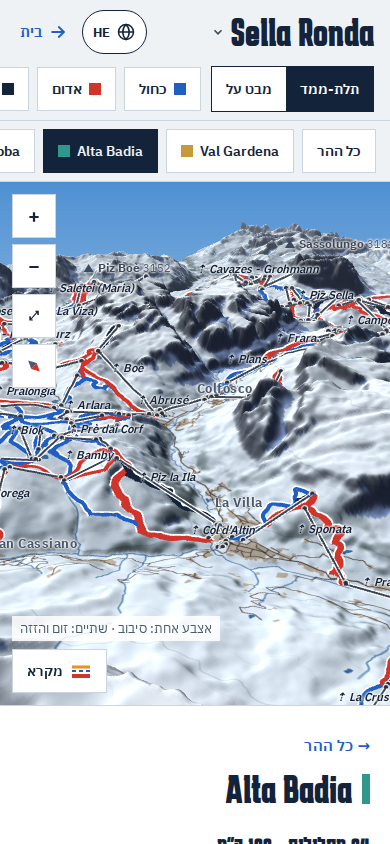
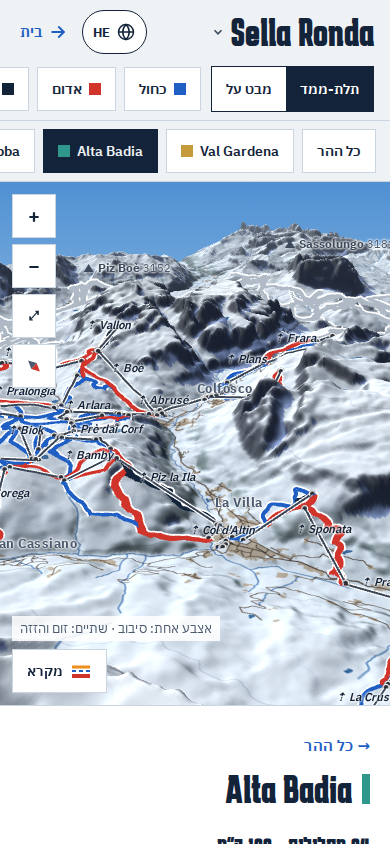
סבב 25: עמקים גם בתלת-ממד, לפי פיני (קנבס גרסה 76)
Claude-Session: https://claude.ai/code/session_018WEovaqXC4kNabe89Cnwoj

diff --git a/design/canvas/project/R25-Spec.dc.html b/design/canvas/project/R25-Spec.dc.html
@@ -12,7 +12,7 @@
 body{margin:0;background:#EEF2F5}
 </style>
 </helmet>
-<div style="width: 640px; height: 2050px; box-sizing: border-box; padding: 28px; background: #FFFFFF; color: #13233A; font-family: 'IBM Plex Sans Hebrew', system-ui, sans-serif; direction: rtl; border-top: 8px solid #13233A"><h1 style="margin: 0; font-family: Karantina, 'Arial Narrow', sans-serif; font-size: 48px; line-height: 1">ערכים למימוש</h1><div style="height: 10px"></div><ol style="margin: 0; padding: 0; list-style: none"><li style="display: flex; flex-direction: column; gap: 2px; padding: 9px 0; border-top: 1px solid #CBD5DF"><b style="font-size: 16px">מתי</b><span style="font-size: 14px; line-height: 1.55; color: #4B5A6F">רק באתר שיש בו חלוקה לעמקים בנתונים (היום Sella Ronda ו-Sölden). גודאורי בלי שינוי.</span></li><li style="display: flex; flex-direction: column; gap: 2px; padding: 9px 0; border-top: 1px solid #CBD5DF"><b style="font-size: 16px">נתונים</b><span style="font-size: 14px; line-height: 1.55; color: #4B5A6F">לכל מסלול ולכל רכבל שדה עמק, מקיבוץ בלבד: הרשימה הכתובה של העמק, ואם אין, האזור ב-OpenSkiMap, ואחרון, העמק של המסלול הקרוב (מסומן). שום קו לא נוסף. חוזה משותף: סקירת ארכיטקט ושורה ב-PARITY (אצל סשן המנהל).</span></li><li style="display: flex; flex-direction: column; gap: 2px; padding: 9px 0; border-top: 1px solid #CBD5DF"><b style="font-size: 16px">צבע לעמק</b><span style="font-size: 14px; line-height: 1.55; color: #4B5A6F">ארבעה גוונים רכים, לא צבעי דרגת קושי. ביום: #C49A3A, #2F978B, #8C6CC0, #7E9136. בלילה: #E2BB5C, #4CC3B4, #B69AE8, #A9BE57. טוקנים --v-&lt;id&gt;, לפי סדר העמקים בקובץ.</span></li><li style="display: flex; flex-direction: column; gap: 2px; padding: 9px 0; border-top: 1px solid #CBD5DF"><b style="font-size: 16px">האזור הרך</b><span style="font-size: 14px; line-height: 1.55; color: #4B5A6F">המסלולים של העמק, ברוחב 1,500 מ׳ ב-Sella Ronda ו-700 ב-Sölden (בערך 6 אחוז מרוחב האתר), קצוות מעוגלים, בקבוצה אחת בשקיפות 34 אחוז ביום ו-30 בלילה. מתחת למעטפות של המסלולים, מעל התבליט. בעמק נבחר: 12 אחוז ביום, 10 בלילה, רק שלו.</span></li><li style="display: flex; flex-direction: column; gap: 2px; padding: 9px 0; border-top: 1px solid #CBD5DF"><b style="font-size: 16px">כל ההר (א)</b><span style="font-size: 14px; line-height: 1.55; color: #4B5A6F">עד שעמק ממלא את רוב המסך (בזום שבו מטר לפיקסל גבוה מ-25 בערך): המסלולים בחצי מהרוחב ובלי מעטפת; שטח מסלול רחב ב-55 אחוז; רכבלים ב---muted, 0.9, שקיפות 75 אחוז, בלי תחנות; בלי תוויות של מסלולים ורכבלים. כפרים ופסגות כמו היום.</span></li><li style="display: flex; flex-direction: column; gap: 2px; padding: 9px 0; border-top: 1px solid #CBD5DF"><b style="font-size: 16px">שלט עמק</b><span style="font-size: 14px; line-height: 1.55; color: #4B5A6F">רקע --paper, מסגרת --rule 1.5, פס עליון 4 בצבע העמק, צל --shadow. השם ב-Karantina 19 (16 באתר קטן), מתחת ריבוע צבע ומספר לכל צבע, 11.5 במשקל 600. במרכז המסלולים של העמק, ושלטים נדחפים זה מזה. כולו יעד מגע (לפחות 44); נגיעה בוחרת את העמק.</span></li><li style="display: flex; flex-direction: column; gap: 2px; padding: 9px 0; border-top: 1px solid #CBD5DF"><b style="font-size: 16px">הצ&#x27;יפים</b><span style="font-size: 14px; line-height: 1.55; color: #4B5A6F">שורה מתחת לסינון, אותו רכיב כמו הסינון (44, פינות ישרות): &quot;כל ההר&quot; ואחריו העמקים, ריבוע 12 בצבע העמק. נבחר: רקע --ink וטקסט --snow. בטלפון גוללים הצידה, והנבחר נגלל לתוך המסך. קישור: #map/area/&lt;id&gt;.</span></li><li style="display: flex; flex-direction: column; gap: 2px; padding: 9px 0; border-top: 1px solid #CBD5DF"><b style="font-size: 16px">עמק נבחר (ב)</b><span style="font-size: 14px; line-height: 1.55; color: #4B5A6F">מסגור לגבולות המסלולים של העמק (בלי דרכים מקשרות ארוכות), עם 18 אחוז שוליים. מסלולים ורכבלים של עמקים אחרים ב-16 אחוז. תוויות רק של העמק: המסלולים לפי אורך, מהארוך, ואחריהם שמות הרכבלים; אותו כלל של &quot;לא עולה על אחרת&quot; של היום. לוחיות של סבב 23 כמו היום.</span></li><li style="display: flex; flex-direction: column; gap: 2px; padding: 9px 0; border-top: 1px solid #CBD5DF"><b style="font-size: 16px">הרשימה</b><span style="font-size: 14px; line-height: 1.55; color: #4B5A6F">כל ההר: שורה לכל עמק, גובה 64 לפחות, פס 6 בצבע העמק, השם ב-Karantina 24, וריבוע ומספר לכל צבע, מספר המסלולים והקילומטרים. נגיעה כמו בצ&#x27;יפ. עמק: &quot;← כל ההר&quot;, כותרת עם הפס, &quot;N מסלולים · N ק״מ&quot;, והמסלולים כמו ברשימה של היום.</span></li><li style="display: flex; flex-direction: column; gap: 2px; padding: 9px 0; border-top: 1px solid #CBD5DF"><b style="font-size: 16px">מחשב</b><span style="font-size: 14px; line-height: 1.55; color: #4B5A6F">הרשימה בצד, אותו דבר. מעבר עכבר על שורה: המעטפת של המסלול בצהוב #FFD34D ברוחב 11 והקו ברוחב 5, מעל השאר. בלי בחירה ובלי תנועת מצלמה.</span></li><li style="display: flex; flex-direction: column; gap: 2px; padding: 9px 0; border-top: 1px solid #CBD5DF"><b style="font-size: 16px">תלת-ממד (ד)</b><span style="font-size: 14px; line-height: 1.55; color: #4B5A6F">אותם צ&#x27;יפים. מצלמה: מרכז העמק, זווית 0.4, מרחק פי 1.15 מהרוחב של העמק, מהכיוון שמהמרכז של האתר אל העמק (ב-Sella Ronda: קבוצת Sella, 46.512, 11.80), כך שמסתכלים פנימה אל הרכס. &quot;כל ההר&quot; חוזר למבט של היום.</span></li><li style="display: flex; flex-direction: column; gap: 2px; padding: 9px 0; border-top: 1px solid #CBD5DF"><b style="font-size: 16px">מחרוזות</b><span style="font-size: 14px; line-height: 1.55; color: #4B5A6F">&quot;כל ההר&quot;, &quot;עמקים&quot; (תווית לקורא מסך של השורה), &quot;N עמקים&quot;, &quot;N מסלולים · N ק״מ&quot;, בארבע השפות. שמות העמקים משמם המקומי, בלי תרגום.</span></li></ol></div>
+<div style="width: 640px; height: 2050px; box-sizing: border-box; padding: 28px; background: #FFFFFF; color: #13233A; font-family: 'IBM Plex Sans Hebrew', system-ui, sans-serif; direction: rtl; border-top: 8px solid #13233A"><h1 style="margin: 0; font-family: Karantina, 'Arial Narrow', sans-serif; font-size: 48px; line-height: 1">ערכים למימוש</h1><div style="height: 10px"></div><ol style="margin: 0; padding: 0; list-style: none"><li style="display: flex; flex-direction: column; gap: 2px; padding: 9px 0; border-top: 1px solid #CBD5DF"><b style="font-size: 16px">מתי</b><span style="font-size: 14px; line-height: 1.55; color: #4B5A6F">רק באתר שיש בו חלוקה לעמקים בנתונים (היום Sella Ronda ו-Sölden). גודאורי בלי שינוי.</span></li><li style="display: flex; flex-direction: column; gap: 2px; padding: 9px 0; border-top: 1px solid #CBD5DF"><b style="font-size: 16px">נתונים</b><span style="font-size: 14px; line-height: 1.55; color: #4B5A6F">לכל מסלול ולכל רכבל שדה עמק, מקיבוץ בלבד: הרשימה הכתובה של העמק, ואם אין, האזור ב-OpenSkiMap, ואחרון, העמק של המסלול הקרוב (מסומן). שום קו לא נוסף. חוזה משותף: סקירת ארכיטקט ושורה ב-PARITY (אצל סשן המנהל).</span></li><li style="display: flex; flex-direction: column; gap: 2px; padding: 9px 0; border-top: 1px solid #CBD5DF"><b style="font-size: 16px">צבע לעמק</b><span style="font-size: 14px; line-height: 1.55; color: #4B5A6F">ארבעה גוונים רכים, לא צבעי דרגת קושי. ביום: #C49A3A, #2F978B, #8C6CC0, #7E9136. בלילה: #E2BB5C, #4CC3B4, #B69AE8, #A9BE57. טוקנים --v-&lt;id&gt;, לפי סדר העמקים בקובץ.</span></li><li style="display: flex; flex-direction: column; gap: 2px; padding: 9px 0; border-top: 1px solid #CBD5DF"><b style="font-size: 16px">האזור הרך</b><span style="font-size: 14px; line-height: 1.55; color: #4B5A6F">המסלולים של העמק, ברוחב 1,500 מ׳ ב-Sella Ronda ו-700 ב-Sölden (בערך 6 אחוז מרוחב האתר), קצוות מעוגלים, בקבוצה אחת בשקיפות 34 אחוז ביום ו-30 בלילה. מתחת למעטפות של המסלולים, מעל התבליט. בעמק נבחר: 12 אחוז ביום, 10 בלילה, רק שלו.</span></li><li style="display: flex; flex-direction: column; gap: 2px; padding: 9px 0; border-top: 1px solid #CBD5DF"><b style="font-size: 16px">כל ההר (א)</b><span style="font-size: 14px; line-height: 1.55; color: #4B5A6F">עד שעמק ממלא את רוב המסך (בזום שבו מטר לפיקסל גבוה מ-25 בערך): המסלולים בחצי מהרוחב ובלי מעטפת; שטח מסלול רחב ב-55 אחוז; רכבלים ב---muted, 0.9, שקיפות 75 אחוז, בלי תחנות; בלי תוויות של מסלולים ורכבלים. כפרים ופסגות כמו היום.</span></li><li style="display: flex; flex-direction: column; gap: 2px; padding: 9px 0; border-top: 1px solid #CBD5DF"><b style="font-size: 16px">שלט עמק</b><span style="font-size: 14px; line-height: 1.55; color: #4B5A6F">רקע --paper, מסגרת --rule 1.5, פס עליון 4 בצבע העמק, צל --shadow. השם ב-Karantina 19 (16 באתר קטן), מתחת ריבוע צבע ומספר לכל צבע, 11.5 במשקל 600. במרכז המסלולים של העמק, ושלטים נדחפים זה מזה. כולו יעד מגע (לפחות 44); נגיעה בוחרת את העמק.</span></li><li style="display: flex; flex-direction: column; gap: 2px; padding: 9px 0; border-top: 1px solid #CBD5DF"><b style="font-size: 16px">הצ&#x27;יפים</b><span style="font-size: 14px; line-height: 1.55; color: #4B5A6F">שורה מתחת לסינון, אותו רכיב כמו הסינון (44, פינות ישרות): &quot;כל ההר&quot; ואחריו העמקים, ריבוע 12 בצבע העמק. נבחר: רקע --ink וטקסט --snow. בטלפון גוללים הצידה, והנבחר נגלל לתוך המסך. קישור: #map/area/&lt;id&gt;.</span></li><li style="display: flex; flex-direction: column; gap: 2px; padding: 9px 0; border-top: 1px solid #CBD5DF"><b style="font-size: 16px">עמק נבחר (ב)</b><span style="font-size: 14px; line-height: 1.55; color: #4B5A6F">מסגור לגבולות המסלולים של העמק (בלי דרכים מקשרות ארוכות), עם 18 אחוז שוליים. מסלולים ורכבלים של עמקים אחרים ב-16 אחוז. תוויות רק של העמק: המסלולים לפי אורך, מהארוך, ואחריהם שמות הרכבלים; אותו כלל של &quot;לא עולה על אחרת&quot; של היום. לוחיות של סבב 23 כמו היום.</span></li><li style="display: flex; flex-direction: column; gap: 2px; padding: 9px 0; border-top: 1px solid #CBD5DF"><b style="font-size: 16px">הרשימה</b><span style="font-size: 14px; line-height: 1.55; color: #4B5A6F">כל ההר: שורה לכל עמק, גובה 64 לפחות, פס 6 בצבע העמק, השם ב-Karantina 24, וריבוע ומספר לכל צבע, מספר המסלולים והקילומטרים. נגיעה כמו בצ&#x27;יפ. עמק: &quot;← כל ההר&quot;, כותרת עם הפס, &quot;N מסלולים · N ק״מ&quot;, והמסלולים כמו ברשימה של היום.</span></li><li style="display: flex; flex-direction: column; gap: 2px; padding: 9px 0; border-top: 1px solid #CBD5DF"><b style="font-size: 16px">מחשב</b><span style="font-size: 14px; line-height: 1.55; color: #4B5A6F">הרשימה בצד, אותו דבר. מעבר עכבר על שורה: המעטפת של המסלול בצהוב #FFD34D ברוחב 11 והקו ברוחב 5, מעל השאר. בלי בחירה ובלי תנועת מצלמה.</span></li><li style="display: flex; flex-direction: column; gap: 2px; padding: 9px 0; border-top: 1px solid #CBD5DF"><b style="font-size: 16px">תלת-ממד (ד)</b><span style="font-size: 14px; line-height: 1.55; color: #4B5A6F">אותם צ&#x27;יפים. כל ההר: זווית 0.95 (גבוה), מסלול בצבע העמק שלו (הטוקנים --v-&lt;id&gt;, גם השטח הרחב), רכבלים #8A96A6, ובלי תוויות של מסלולים, רכבלים, כפרים ופסגות; שלט העמק הוא התווית הראשונה שמונחת, על נקודת מסלול גבוהה קרוב לאמצע העמק (גובה פחות 0.12 כפול המרחק מהאמצע). עמק אחד: מצלמה במרכז העמק, זווית 0.4, מרחק פי 1.15 מהרוחב שלו, מהכיוון שמהמרכז של האתר אל העמק (ב-Sella Ronda: קבוצת Sella, 46.512, 11.80); המסלולים של עמקים אחרים #AEB8C4 ובלי תווית, והרכבלים שלהם לא מצוירים.</span></li><li style="display: flex; flex-direction: column; gap: 2px; padding: 9px 0; border-top: 1px solid #CBD5DF"><b style="font-size: 16px">מחרוזות</b><span style="font-size: 14px; line-height: 1.55; color: #4B5A6F">&quot;כל ההר&quot;, &quot;עמקים&quot; (תווית לקורא מסך של השורה), &quot;N עמקים&quot;, &quot;N מסלולים · N ק״מ&quot;, בארבע השפות. שמות העמקים משמם המקומי, בלי תרגום.</span></li></ol></div>
 </x-dc>
 <script type="text/x-dc" data-dc-script data-props='{"$preview":{"width":640,"height":2050}}'>
 class Component extends DCLogic {

diff --git a/design/canvas/project/R25-0-Decide.dc.html b/design/canvas/project/R25-0-Decide.dc.html
@@ -12,7 +12,7 @@
 body{margin:0;background:#EEF2F5}
 </style>
 </helmet>
-<div style="width: 600px; height: 1160px; box-sizing: border-box; padding: 28px; background: #FFFFFF; color: #13233A; font-family: 'IBM Plex Sans Hebrew', system-ui, sans-serif; direction: rtl; border-top: 8px solid #1F5FC4"><h1 style="margin: 0; font-family: Karantina, 'Arial Narrow', sans-serif; font-size: 48px; line-height: 1">מה לאשר בסבב 25</h1><p style="margin: 8px 0 12px; font-size: 14.5px; line-height: 1.55; color: #4B5A6F">ארבעה כיוונים, מצוירים מעל האתר האמיתי, והמלצה אחת. העמקים מקיבוץ של מקורות אמיתיים; שום קו לא נוסף.</p><ol style="margin: 0; padding: 0; list-style: none"><li style="display: flex; flex-direction: column; gap: 2px; padding: 9px 0; border-top: 1px solid #CBD5DF"><b style="font-size: 16px">מה ביקשו</b><span style="font-size: 14px; line-height: 1.55; color: #4B5A6F">פיני: באתר גדול (Sella Ronda, וגם Sölden) המפה מבולגנת ולא קריאה. הציע רשימה כאפשרות ראשית, חלוקה לקטעים עם מבט על הכל, ותלת-ממד בשיפוע.</span></li><li style="display: flex; flex-direction: column; gap: 2px; padding: 9px 0; border-top: 1px solid #CBD5DF"><b style="font-size: 16px">מה מצאתי</b><span style="font-size: 14px; line-height: 1.55; color: #4B5A6F">הבעיה היא לא חפיפה של טקסט (אין), אלא שאין היררכיה: 9,049 קווים באותו משקל, רכבלים שחורים ותחנות בולטים מהמסלולים, ותוויות שנבחרות לפי סדר ולא לפי חשיבות. החלוקה לעמקים כבר קיימת במקורות אמיתיים.</span></li><li style="display: flex; flex-direction: column; gap: 2px; padding: 9px 0; border-top: 1px solid #CBD5DF"><b style="font-size: 16px">ההמלצה: מערכת אחת של עמקים</b><span style="font-size: 14px; line-height: 1.55; color: #4B5A6F"><b style="color: #13233A">א</b> כל ההר מראה עמקים עם שם וספירה, והפרטים רק בפנים; <b style="color: #13233A">ב</b> שורת צ&#x27;יפים לעמק, שממסגרת ומעמעמת את השאר, עם תוויות לפי חשיבות; הרשימה מחולקת לעמקים; <b style="color: #13233A">ד</b> בתלת-ממד המצלמה נמוכה בצד העמק. בטלפון ובמחשב.</span></li><li style="display: flex; flex-direction: column; gap: 2px; padding: 9px 0; border-top: 1px solid #CBD5DF"><b style="font-size: 16px">מה לא</b><span style="font-size: 14px; line-height: 1.55; color: #4B5A6F"><b style="color: #13233A">ג</b> הרשימה קודם: מתאים למי שיודע שם, לא למי שמגיע לאתר חדש. רק החלוקה של הרשימה נכנסת. גודאורי בלי שינוי.</span></li><li style="display: flex; flex-direction: column; gap: 2px; padding: 9px 0; border-top: 1px solid #CBD5DF"><b style="font-size: 16px">שאלה 1</b><span style="font-size: 14px; line-height: 1.55; color: #4B5A6F">לאשר את א, ב וד יחד כמו בקנבס?</span></li><li style="display: flex; flex-direction: column; gap: 2px; padding: 9px 0; border-top: 1px solid #CBD5DF"><b style="font-size: 16px">שאלה 2</b><span style="font-size: 14px; line-height: 1.55; color: #4B5A6F">ארבעה גוונים רכים לעמקים (חרדל, טורקיז, סגול, זית), שלא מתנגשים בצבעי הקושי. בסדר, או בלי צבע לעמקים (רק שם)?</span></li><li style="display: flex; flex-direction: column; gap: 2px; padding: 9px 0; border-top: 1px solid #CBD5DF"><b style="font-size: 16px">שאלה 3</b><span style="font-size: 14px; line-height: 1.55; color: #4B5A6F">ג, הרשימה קודם: לוותר (ההמלצה), או לנסות גם אותה באתר הגדול?</span></li><li style="display: flex; flex-direction: column; gap: 2px; padding: 9px 0; border-top: 1px solid #CBD5DF"><b style="font-size: 16px">אחרי האישור</b><span style="font-size: 14px; line-height: 1.55; color: #4B5A6F">שדה עמק בנתונים: סקירת ארכיטקט ושורה ב-PARITY (סשן המנהל), ואז מימוש. הנתונים: קיבוץ בלבד, שום קו לא נוסף.</span></li></ol></div>
+<div style="width: 600px; height: 1160px; box-sizing: border-box; padding: 28px; background: #FFFFFF; color: #13233A; font-family: 'IBM Plex Sans Hebrew', system-ui, sans-serif; direction: rtl; border-top: 8px solid #1F5FC4"><h1 style="margin: 0; font-family: Karantina, 'Arial Narrow', sans-serif; font-size: 48px; line-height: 1">מה לאשר בסבב 25</h1><p style="margin: 8px 0 12px; font-size: 14.5px; line-height: 1.55; color: #4B5A6F">ארבעה כיוונים, מצוירים מעל האתר האמיתי, והמלצה אחת. העמקים מקיבוץ של מקורות אמיתיים; שום קו לא נוסף.</p><ol style="margin: 0; padding: 0; list-style: none"><li style="display: flex; flex-direction: column; gap: 2px; padding: 9px 0; border-top: 1px solid #CBD5DF"><b style="font-size: 16px">מה ביקשו</b><span style="font-size: 14px; line-height: 1.55; color: #4B5A6F">פיני: באתר גדול (Sella Ronda, וגם Sölden) המפה מבולגנת ולא קריאה. הציע רשימה כאפשרות ראשית, חלוקה לקטעים עם מבט על הכל, ותלת-ממד בשיפוע.</span></li><li style="display: flex; flex-direction: column; gap: 2px; padding: 9px 0; border-top: 1px solid #CBD5DF"><b style="font-size: 16px">מה מצאתי</b><span style="font-size: 14px; line-height: 1.55; color: #4B5A6F">הבעיה היא לא חפיפה של טקסט (אין), אלא שאין היררכיה: 9,049 קווים באותו משקל, רכבלים שחורים ותחנות בולטים מהמסלולים, ותוויות שנבחרות לפי סדר ולא לפי חשיבות. החלוקה לעמקים כבר קיימת במקורות אמיתיים.</span></li><li style="display: flex; flex-direction: column; gap: 2px; padding: 9px 0; border-top: 1px solid #CBD5DF"><b style="font-size: 16px">ההמלצה: מערכת אחת של עמקים</b><span style="font-size: 14px; line-height: 1.55; color: #4B5A6F"><b style="color: #13233A">א</b> כל ההר מראה עמקים עם שם וספירה, והפרטים רק בפנים; <b style="color: #13233A">ב</b> שורת צ&#x27;יפים לעמק, שממסגרת ומעמעמת את השאר, עם תוויות לפי חשיבות; הרשימה מחולקת לעמקים; <b style="color: #13233A">ד</b> גם בתלת-ממד: כל ההר בצבעי העמקים עם שלטים, ובעמק אחד מצלמה נמוכה והשאר באפור. בטלפון ובמחשב.</span></li><li style="display: flex; flex-direction: column; gap: 2px; padding: 9px 0; border-top: 1px solid #CBD5DF"><b style="font-size: 16px">מה לא</b><span style="font-size: 14px; line-height: 1.55; color: #4B5A6F"><b style="color: #13233A">ג</b> הרשימה קודם: מתאים למי שיודע שם, לא למי שמגיע לאתר חדש. רק החלוקה של הרשימה נכנסת. גודאורי בלי שינוי.</span></li><li style="display: flex; flex-direction: column; gap: 2px; padding: 9px 0; border-top: 1px solid #CBD5DF"><b style="font-size: 16px">שאלה 1</b><span style="font-size: 14px; line-height: 1.55; color: #4B5A6F">לאשר את א, ב וד יחד כמו בקנבס?</span></li><li style="display: flex; flex-direction: column; gap: 2px; padding: 9px 0; border-top: 1px solid #CBD5DF"><b style="font-size: 16px">שאלה 2</b><span style="font-size: 14px; line-height: 1.55; color: #4B5A6F">ארבעה גוונים רכים לעמקים (חרדל, טורקיז, סגול, זית), שלא מתנגשים בצבעי הקושי. בסדר, או בלי צבע לעמקים (רק שם)?</span></li><li style="display: flex; flex-direction: column; gap: 2px; padding: 9px 0; border-top: 1px solid #CBD5DF"><b style="font-size: 16px">שאלה 3</b><span style="font-size: 14px; line-height: 1.55; color: #4B5A6F">ג, הרשימה קודם: לוותר (ההמלצה), או לנסות גם אותה באתר הגדול?</span></li><li style="display: flex; flex-direction: column; gap: 2px; padding: 9px 0; border-top: 1px solid #CBD5DF"><b style="font-size: 16px">אחרי האישור</b><span style="font-size: 14px; line-height: 1.55; color: #4B5A6F">שדה עמק בנתונים: סקירת ארכיטקט ושורה ב-PARITY (סשן המנהל), ואז מימוש. הנתונים: קיבוץ בלבד, שום קו לא נוסף.</span></li></ol></div>
 </x-dc>
 <script type="text/x-dc" data-dc-script data-props='{"$preview":{"width":600,"height":1160}}'>
 class Component extends DCLogic {

diff --git a/design/canvas/project/R25-D3.dc.html b/design/canvas/project/R25-D3.dc.html
@@ -2,7 +2,7 @@
 <html lang="he" dir="rtl">
 <head>
 <meta charset="utf-8">
-<title>ד. תלת-ממד לכל עמק (מומלץ)</title>
+<title>ד. תלת-ממד: גם כאן עמקים (מומלץ, עודכן לפי פיני)</title>
 <script src="./support.js"></script>
 </head>
 <body>
@@ -12,7 +12,7 @@
 body{margin:0;background:#EEF2F5}
 </style>
 </helmet>
-<div style="width: 2102px; height: 1068px; box-sizing: border-box; padding: 20px; display: flex; flex-direction: column; gap: 12px; background: #FFFFFF; color: #13233A; font-family: 'IBM Plex Sans Hebrew', system-ui, sans-serif; direction: rtl"><div style="display: flex; flex-direction: column; gap: 6px; height: 138px; max-width: 2062px"><b style="font-family: Karantina, 'Arial Narrow', sans-serif; font-size: 34px; line-height: 1">ד. תלת-ממד לכל עמק (מומלץ)</b><span style="font-size: 14px; line-height: 1.45; color: #4B5A6F">בתלת-ממד אותם צ&#x27;יפים. בחירת עמק מעבירה את המצלמה נמוך, מהצד החיצוני של העמק, מבט פנימה אל הרכס (ב-Sella Ronda אל קבוצת Sella), במקום כל 26 הק״מ מלמעלה. ההר נראה כהר בשיפוע, כמו שפיני הציע, והמסלולים של העמק בקדמת התמונה.</span></div><div style="display: flex; gap: 28px; align-items: flex-start"><div style="display: flex; flex-direction: column; gap: 18px; width: 390px"><b style="height: 16px; font-size: 15px; color: #1F5FC4">היום</b><img src="/_blob/da48b79a5216cc0f9a063cff5003233f" alt="היום" style="display: block; width: 390px; height: 844px; box-shadow: 0 0 0 1px #CBD5DF"></div><div style="display: flex; flex-direction: column; gap: 18px; width: 390px"><b style="height: 16px; font-size: 15px; color: #1F5FC4">Alta Badia</b><img src="/_blob/6bb7536cc3b634439225a45b9108280f" alt="Alta Badia" style="display: block; width: 390px; height: 844px; box-shadow: 0 0 0 1px #CBD5DF"></div><div style="display: flex; flex-direction: column; gap: 18px; width: 390px"><b style="height: 16px; font-size: 15px; color: #1F5FC4">בלילה</b><img src="/_blob/510da695e1b17b04894806a20a13e34a" alt="בלילה" style="display: block; width: 390px; height: 844px; box-shadow: 0 0 0 1px #CBD5DF"></div><div style="display: flex; flex-direction: column; gap: 18px; width: 390px"><b style="height: 16px; font-size: 15px; color: #1F5FC4">Val Gardena</b><img src="/_blob/d59656f33208224349566c6b130fe0e7" alt="Val Gardena" style="display: block; width: 390px; height: 844px; box-shadow: 0 0 0 1px #CBD5DF"></div><div style="display: flex; flex-direction: column; gap: 18px; width: 390px"><b style="height: 16px; font-size: 15px; color: #1F5FC4">Sölden, הקרחון</b><img src="/_blob/fe9f752d7659ed6f702605c9afe72b85" alt="Sölden, הקרחון" style="display: block; width: 390px; height: 844px; box-shadow: 0 0 0 1px #CBD5DF"></div></div></div>
+<div style="width: 2102px; height: 1068px; box-sizing: border-box; padding: 20px; display: flex; flex-direction: column; gap: 12px; background: #FFFFFF; color: #13233A; font-family: 'IBM Plex Sans Hebrew', system-ui, sans-serif; direction: rtl"><div style="display: flex; flex-direction: column; gap: 6px; height: 138px; max-width: 2062px"><b style="font-family: Karantina, 'Arial Narrow', sans-serif; font-size: 34px; line-height: 1">ד. תלת-ממד: גם כאן עמקים (מומלץ, עודכן לפי פיני)</b><span style="font-size: 14px; line-height: 1.45; color: #4B5A6F">פיני: &quot;בתלת-ממד אני לא רואה את החלוקה לעמקים, זו מפה של הכל&quot;. עכשיו התלת-ממד מראה את אותה מערכת עמקים. כל ההר: מבט גבוה יותר, כל מסלול בצבע של העמק שלו, שלט לכל עמק (על נקודה גבוהה במסלולים שלו, כדי שרכס לא יסתיר אותו), ובלי שמות של מסלולים, רכבלים, כפרים ופסגות. דרגת הקושי חוזרת כשבוחרים עמק. עמק אחד: המצלמה נמוכה מהצד החיצוני שלו, מבט אל הרכס; המסלולים והרכבלים שלו כמו היום, והמסלולים של שאר העמקים באפור דק ובלי שם, בלי הרכבלים שלהם. בטלפון ההר כולו לא נכנס במסך אחד, ולכן הוא מוצג לאורך; גוררים כדי לראות עוד, או בוחרים עמק.</span></div><div style="display: flex; gap: 28px; align-items: flex-start"><div style="display: flex; flex-direction: column; gap: 18px; width: 390px"><b style="height: 16px; font-size: 15px; color: #1F5FC4">היום</b><img src="/_blob/da48b79a5216cc0f9a063cff5003233f" alt="היום" style="display: block; width: 390px; height: 844px; box-shadow: 0 0 0 1px #CBD5DF"></div><div style="display: flex; flex-direction: column; gap: 18px; width: 390px"><b style="height: 16px; font-size: 15px; color: #1F5FC4">כל ההר</b><img src="/_blob/a30348527152d30b3c17a3b813f34ce3" alt="כל ההר" style="display: block; width: 390px; height: 844px; box-shadow: 0 0 0 1px #CBD5DF"></div><div style="display: flex; flex-direction: column; gap: 18px; width: 390px"><b style="height: 16px; font-size: 15px; color: #1F5FC4">Alta Badia</b><img src="/_blob/67dc21e2e6f5dd303246db4145fb3e32" alt="Alta Badia" style="display: block; width: 390px; height: 844px; box-shadow: 0 0 0 1px #CBD5DF"></div><div style="display: flex; flex-direction: column; gap: 18px; width: 390px"><b style="height: 16px; font-size: 15px; color: #1F5FC4">בלילה</b><img src="/_blob/eb5291231d2bbfc6a905155b767700cf" alt="בלילה" style="display: block; width: 390px; height: 844px; box-shadow: 0 0 0 1px #CBD5DF"></div><div style="display: flex; flex-direction: column; gap: 18px; width: 390px"><b style="height: 16px; font-size: 15px; color: #1F5FC4">Val Gardena</b><img src="/_blob/73af06948455da8ec191d762639411fd" alt="Val Gardena" style="display: block; width: 390px; height: 844px; box-shadow: 0 0 0 1px #CBD5DF"></div></div></div>
 </x-dc>
 <script type="text/x-dc" data-dc-script data-props='{"$preview":{"width":2102,"height":1068}}'>
 class Component extends DCLogic {

diff --git a/design/canvas/project/R25-D3Desk.dc.html b/design/canvas/project/R25-D3Desk.dc.html
@@ -12,9 +12,9 @@
 body{margin:0;background:#EEF2F5}
 </style>
 </helmet>
-<div style="width: 940px; height: 787px; box-sizing: border-box; padding: 20px; display: flex; flex-direction: column; gap: 12px; background: #FFFFFF; color: #13233A; font-family: 'IBM Plex Sans Hebrew', system-ui, sans-serif; direction: rtl"><div style="display: flex; flex-direction: column; gap: 6px; height: 138px; max-width: 900px"><b style="font-family: Karantina, 'Arial Narrow', sans-serif; font-size: 34px; line-height: 1">ד. במחשב</b><span style="font-size: 14px; line-height: 1.45; color: #4B5A6F">Alta Badia מצפון-מזרח, אל Sella.</span></div><div style="display: flex; gap: 28px; align-items: flex-start"><div style="display: flex; flex-direction: column; gap: 18px; width: 900px"><b style="height: 16px; font-size: 15px; color: #1F5FC4">Alta Badia</b><img src="/_blob/a3799c0d88263ba4ea421155ee8447e6" alt="Alta Badia" style="display: block; width: 900px; height: 563px; box-shadow: 0 0 0 1px #CBD5DF"></div></div></div>
+<div style="width: 1868px; height: 787px; box-sizing: border-box; padding: 20px; display: flex; flex-direction: column; gap: 12px; background: #FFFFFF; color: #13233A; font-family: 'IBM Plex Sans Hebrew', system-ui, sans-serif; direction: rtl"><div style="display: flex; flex-direction: column; gap: 6px; height: 138px; max-width: 1828px"><b style="font-family: Karantina, 'Arial Narrow', sans-serif; font-size: 34px; line-height: 1">ד. במחשב</b><span style="font-size: 14px; line-height: 1.45; color: #4B5A6F">כל ההר עם ארבעת השלטים, ו-Alta Badia מצפון-מזרח, אל Sella.</span></div><div style="display: flex; gap: 28px; align-items: flex-start"><div style="display: flex; flex-direction: column; gap: 18px; width: 900px"><b style="height: 16px; font-size: 15px; color: #1F5FC4">כל ההר</b><img src="/_blob/f8ed315bf01e7cc35d033b49e2d86f7c" alt="כל ההר" style="display: block; width: 900px; height: 563px; box-shadow: 0 0 0 1px #CBD5DF"></div><div style="display: flex; flex-direction: column; gap: 18px; width: 900px"><b style="height: 16px; font-size: 15px; color: #1F5FC4">Alta Badia</b><img src="/_blob/e0425a0d3935639c6839a082e819328c" alt="Alta Badia" style="display: block; width: 900px; height: 563px; box-shadow: 0 0 0 1px #CBD5DF"></div></div></div>
 </x-dc>
-<script type="text/x-dc" data-dc-script data-props='{"$preview":{"width":940,"height":787}}'>
+<script type="text/x-dc" data-dc-script data-props='{"$preview":{"width":1868,"height":787}}'>
 class Component extends DCLogic {
   renderVals() { return {}; }
 }

diff --git a/design/canvas/project/R25-D3So.dc.html b/design/canvas/project/R25-D3So.dc.html
@@ -1,0 +1,23 @@
+<!doctype html>
+<html lang="he" dir="rtl">
+<head>
+<meta charset="utf-8">
+<title>ד. Sölden</title>
+<script src="./support.js"></script>
+</head>
+<body>
+<x-dc>
+<helmet>
+<style>
+body{margin:0;background:#EEF2F5}
+</style>
+</helmet>
+<div style="width: 848px; height: 1068px; box-sizing: border-box; padding: 20px; display: flex; flex-direction: column; gap: 12px; background: #FFFFFF; color: #13233A; font-family: 'IBM Plex Sans Hebrew', system-ui, sans-serif; direction: rtl"><div style="display: flex; flex-direction: column; gap: 6px; height: 138px; max-width: 808px"><b style="font-family: Karantina, 'Arial Narrow', sans-serif; font-size: 34px; line-height: 1">ד. Sölden</b><span style="font-size: 14px; line-height: 1.45; color: #4B5A6F">כל ההר בשלושת הצבעים, והקרחון לבד.</span></div><div style="display: flex; gap: 28px; align-items: flex-start"><div style="display: flex; flex-direction: column; gap: 18px; width: 390px"><b style="height: 16px; font-size: 15px; color: #1F5FC4">כל ההר</b><img src="/_blob/b4ff31f38576505c2fc9dad166378e27" alt="כל ההר" style="display: block; width: 390px; height: 844px; box-shadow: 0 0 0 1px #CBD5DF"></div><div style="display: flex; flex-direction: column; gap: 18px; width: 390px"><b style="height: 16px; font-size: 15px; color: #1F5FC4">הקרחון</b><img src="/_blob/f058a54bd09f99f405f82400f66a99f4" alt="הקרחון" style="display: block; width: 390px; height: 844px; box-shadow: 0 0 0 1px #CBD5DF"></div></div></div>
+</x-dc>
+<script type="text/x-dc" data-dc-script data-props='{"$preview":{"width":848,"height":1068}}'>
+class Component extends DCLogic {
+  renderVals() { return {}; }
+}
+</script>
+</body>
+</html>

diff --git a/design/round25/build.py b/design/round25/build.py
@@ -14,8 +14,8 @@ from build import page  # the board shell of rounds 12 to 24
 PAGE = ('round25', 'סבב 25: מפה קריאה באתר גדול')
 PH = ['today-sr', 'today-sr-night', 'today-sr-list', 'today-sr-3d', 'today-so', 'today-gu',
       'a-sr', 'a-sr-night', 'a-sr-list', 'a-so', 'b-sr-badia', 'b-sr-badia-night', 'b-sr-gardena', 'b-sr-arabba', 'b-sr-badia-list',
-      'b-so-c', 'b-so-b', 'b-so-b-night', 'c-sr', 'd-sr-badia', 'd-sr-badia-night', 'd-sr-gardena', 'd-so-c']
-DK = ['today-sr-desk', 'a-sr-desk', 'a-sr-desk-night', 'b-sr-badia-desk', 'b-sr-gardena-desk-night', 'd-sr-badia-desk']
+      'b-so-c', 'b-so-b', 'b-so-b-night', 'c-sr', 'd-sr-badia', 'd-sr-badia-night', 'd-sr-gardena', 'd-so-c', 'd-sr-all', 'd-so-all']
+DK = ['today-sr-desk', 'a-sr-desk', 'a-sr-desk-night', 'b-sr-badia-desk', 'b-sr-gardena-desk-night', 'd-sr-badia-desk', 'd-sr-all-desk']
 SRC = {n: ('shots/' + n + '.png', 390, 0, 0) for n in PH}
 SRC.update({n: ('shots/' + n + '.png', 900, 0, 0) for n in DK})
 N = lambda f: f + '.webp'
@@ -36,10 +36,12 @@ BOARDS = [
      [('הקרחון', ['b-so-c']), ('Giggijoch', ['b-so-b']), ('בלילה', ['b-so-b-night'])]),
     ('val', 'ValDesk', 'ב. במחשב: הרשימה בצד', 'הרשימה בצד היא המסלולים של העמק. מעבר עכבר על שורה מבליט את המסלול במפה (מעטפת צהובה, כמו בחירה בתלת-ממד), בלי לשנות שום דבר אחר. כאן Boè.',
      [('Alta Badia, מעבר עכבר', ['b-sr-badia-desk']), ('Val Gardena בלילה', ['b-sr-gardena-desk-night'])]),
-    ('d3', 'D3', 'ד. תלת-ממד לכל עמק (מומלץ)', 'בתלת-ממד אותם צ\'יפים. בחירת עמק מעבירה את המצלמה נמוך, מהצד החיצוני של העמק, מבט פנימה אל הרכס (ב-Sella Ronda אל קבוצת Sella), במקום כל 26 הק״מ מלמעלה. ההר נראה כהר בשיפוע, כמו שפיני הציע, והמסלולים של העמק בקדמת התמונה.',
-     [('היום', ['today-sr-3d']), ('Alta Badia', ['d-sr-badia']), ('בלילה', ['d-sr-badia-night']), ('Val Gardena', ['d-sr-gardena']), ('Sölden, הקרחון', ['d-so-c'])]),
-    ('d3', 'D3Desk', 'ד. במחשב', 'Alta Badia מצפון-מזרח, אל Sella.',
-     [('Alta Badia', ['d-sr-badia-desk'])]),
+    ('d3', 'D3', 'ד. תלת-ממד: גם כאן עמקים (מומלץ, עודכן לפי פיני)', 'פיני: "בתלת-ממד אני לא רואה את החלוקה לעמקים, זו מפה של הכל". עכשיו התלת-ממד מראה את אותה מערכת עמקים. כל ההר: מבט גבוה יותר, כל מסלול בצבע של העמק שלו, שלט לכל עמק (על נקודה גבוהה במסלולים שלו, כדי שרכס לא יסתיר אותו), ובלי שמות של מסלולים, רכבלים, כפרים ופסגות. דרגת הקושי חוזרת כשבוחרים עמק. עמק אחד: המצלמה נמוכה מהצד החיצוני שלו, מבט אל הרכס; המסלולים והרכבלים שלו כמו היום, והמסלולים של שאר העמקים באפור דק ובלי שם, בלי הרכבלים שלהם. בטלפון ההר כולו לא נכנס במסך אחד, ולכן הוא מוצג לאורך; גוררים כדי לראות עוד, או בוחרים עמק.',
+     [('היום', ['today-sr-3d']), ('כל ההר', ['d-sr-all']), ('Alta Badia', ['d-sr-badia']), ('בלילה', ['d-sr-badia-night']), ('Val Gardena', ['d-sr-gardena'])]),
+    ('d3', 'D3So', 'ד. Sölden', 'כל ההר בשלושת הצבעים, והקרחון לבד.',
+     [('כל ההר', ['d-so-all']), ('הקרחון', ['d-so-c'])]),
+    ('d3', 'D3Desk', 'ד. במחשב', 'כל ההר עם ארבעת השלטים, ו-Alta Badia מצפון-מזרח, אל Sella.',
+     [('כל ההר', ['d-sr-all-desk']), ('Alta Badia', ['d-sr-badia-desk'])]),
     ('alt', 'Alt', 'ג. הרשימה קודם (לא מומלץ)', 'הרעיון של פיני: באתר גדול המסך נפתח על הרשימה, עם רצועת מפה קטנה למעלה. זה עובד כשיודעים את שם המסלול, אבל רוב מי שמגיע לאתר חדש לא יודע; הוא צריך לראות איפה הדברים. לכן ההמלצה לקחת מכאן רק את החלוקה לעמקים ברשימה (בא וב), ולהשאיר את המפה העמוד המרכזי (החלטה 67).',
      [('הרשימה קודם', ['c-sr']), ('לעומת: א', ['a-sr-list'])]),
     ('alt', 'Gud', 'גודאורי: בלי שינוי', 'שכבת העמקים רק באתר שיש לו חלוקה לעמקים בנתונים. גודאורי (27 מסלולים) נשאר בדיוק כמו היום, עם "צד Kobi".',
@@ -58,14 +60,14 @@ TEXT_BOARDS = [
         ('עמק נבחר (ב)', 'מסגור לגבולות המסלולים של העמק (בלי דרכים מקשרות ארוכות), עם 18 אחוז שוליים. מסלולים ורכבלים של עמקים אחרים ב-16 אחוז. תוויות רק של העמק: המסלולים לפי אורך, מהארוך, ואחריהם שמות הרכבלים; אותו כלל של "לא עולה על אחרת" של היום. לוחיות של סבב 23 כמו היום.'),
         ('הרשימה', 'כל ההר: שורה לכל עמק, גובה 64 לפחות, פס 6 בצבע העמק, השם ב-Karantina 24, וריבוע ומספר לכל צבע, מספר המסלולים והקילומטרים. נגיעה כמו בצ\'יפ. עמק: "← כל ההר", כותרת עם הפס, "N מסלולים · N ק״מ", והמסלולים כמו ברשימה של היום.'),
         ('מחשב', 'הרשימה בצד, אותו דבר. מעבר עכבר על שורה: המעטפת של המסלול בצהוב #FFD34D ברוחב 11 והקו ברוחב 5, מעל השאר. בלי בחירה ובלי תנועת מצלמה.'),
-        ('תלת-ממד (ד)', 'אותם צ\'יפים. מצלמה: מרכז העמק, זווית 0.4, מרחק פי 1.15 מהרוחב של העמק, מהכיוון שמהמרכז של האתר אל העמק (ב-Sella Ronda: קבוצת Sella, 46.512, 11.80), כך שמסתכלים פנימה אל הרכס. "כל ההר" חוזר למבט של היום.'),
+        ('תלת-ממד (ד)', 'אותם צ\'יפים. כל ההר: זווית 0.95 (גבוה), מסלול בצבע העמק שלו (הטוקנים --v-<id>, גם השטח הרחב), רכבלים #8A96A6, ובלי תוויות של מסלולים, רכבלים, כפרים ופסגות; שלט העמק הוא התווית הראשונה שמונחת, על נקודת מסלול גבוהה קרוב לאמצע העמק (גובה פחות 0.12 כפול המרחק מהאמצע). עמק אחד: מצלמה במרכז העמק, זווית 0.4, מרחק פי 1.15 מהרוחב שלו, מהכיוון שמהמרכז של האתר אל העמק (ב-Sella Ronda: קבוצת Sella, 46.512, 11.80); המסלולים של עמקים אחרים #AEB8C4 ובלי תווית, והרכבלים שלהם לא מצוירים.'),
         ('מחרוזות', '"כל ההר", "עמקים" (תווית לקורא מסך של השורה), "N עמקים", "N מסלולים · N ק״מ", בארבע השפות. שמות העמקים משמם המקומי, בלי תרגום.'),
     ]),
 ]
 DECIDE = [
     ('מה ביקשו', 'פיני: באתר גדול (Sella Ronda, וגם Sölden) המפה מבולגנת ולא קריאה. הציע רשימה כאפשרות ראשית, חלוקה לקטעים עם מבט על הכל, ותלת-ממד בשיפוע.'),
     ('מה מצאתי', 'הבעיה היא לא חפיפה של טקסט (אין), אלא שאין היררכיה: 9,049 קווים באותו משקל, רכבלים שחורים ותחנות בולטים מהמסלולים, ותוויות שנבחרות לפי סדר ולא לפי חשיבות. החלוקה לעמקים כבר קיימת במקורות אמיתיים.'),
-    ('ההמלצה: מערכת אחת של עמקים', '**א** כל ההר מראה עמקים עם שם וספירה, והפרטים רק בפנים; **ב** שורת צ\'יפים לעמק, שממסגרת ומעמעמת את השאר, עם תוויות לפי חשיבות; הרשימה מחולקת לעמקים; **ד** בתלת-ממד המצלמה נמוכה בצד העמק. בטלפון ובמחשב.'),
+    ('ההמלצה: מערכת אחת של עמקים', '**א** כל ההר מראה עמקים עם שם וספירה, והפרטים רק בפנים; **ב** שורת צ\'יפים לעמק, שממסגרת ומעמעמת את השאר, עם תוויות לפי חשיבות; הרשימה מחולקת לעמקים; **ד** גם בתלת-ממד: כל ההר בצבעי העמקים עם שלטים, ובעמק אחד מצלמה נמוכה והשאר באפור. בטלפון ובמחשב.'),
     ('מה לא', '**ג** הרשימה קודם: מתאים למי שיודע שם, לא למי שמגיע לאתר חדש. רק החלוקה של הרשימה נכנסת. גודאורי בלי שינוי.'),
     ('שאלה 1', 'לאשר את א, ב וד יחד כמו בקנבס?'),
     ('שאלה 2', 'ארבעה גוונים רכים לעמקים (חרדל, טורקיז, סגול, זית), שלא מתנגשים בצבעי הקושי. בסדר, או בלי צבע לעמקים (רק שם)?'),

diff --git a/docs/STATUS.md b/docs/STATUS.md
@@ -321,6 +321,8 @@
 
 ## יומן
 
+- 7.10.2026: **סבב 25, תיקון לפי פיני: עמקים גם בתלת-ממד** ("בתלת ממד אני לא רואה את החלוקה לעמקים, זו מפה של הכל"; קנבס גרסה 76). כל ההר במבט גבוה, כל מסלול בצבע העמק שלו ושלט לכל עמק, בלי שמות של מסלולים, רכבלים, כפרים ופסגות; דרגת הקושי חוזרת כשבוחרים עמק. בעמק אחד המסלולים של שאר העמקים באפור דק ובלי שם, והרכבלים שלהם לא מצוירים. Sella Ronda ו-Sölden, טלפון ומחשב.
+
 - 7.10.2026: **ארכיטקט: סקירת תכנון לשדה עמק (`sectors`) בנתוני אתר גדול (סבב 25), מאושר בארבעה תנאים** (`docs/ARCHITECTURE.md`, סקירות תכנון): `bbox` ו-`center` בנתונים, `near` עם מרחק מרבי וללא השפעה על ספירות, קישור `#map/area/<id>` בלי התנגשות, ומזהה עמק כחוזה יציב. לא שונה קוד.
 - 7.10.2026: **סבב 25 בקנבס: מפה קריאה באתר גדול** (מעצב המוצר, לבקשת סשן המנהל; ממתין לבחירה של פיני). מצויר מעל האתר האמיתי, בטלפון ובמחשב, ביום ובלילה, ב-Sella Ronda, ב-Sölden ובגודאורי. **ההמלצה, מערכת אחת של עמקים:** א, כל ההר מראה עמקים (אזור רך מהמסלולים של העמק עצמם, ושלט עם השם וספירה לפי צבע; מסלולים דקים, רכבלים אפורים, בלי תוויות); ב, שורת צ'יפים שממסגרת עמק, מעמעמת את השאר ומראה את התוויות שלו לפי אורך המסלול, והרשימה מחולקת לעמקים; ד, בתלת-ממד מצלמה נמוכה מהצד של העמק. **לא מומלץ:** ג, הרשימה קודם (רק החלוקה שלה נכנסת). גודאורי בלי שינוי. שלוש שאלות לפיני בכרטיס "מה לאשר". `design/round25/README.md`.
 

diff --git a/design/round25/README.md b/design/round25/README.md
@@ -17,7 +17,7 @@
 | א | כל ההר מראה עמקים: אזור רך סביב המסלולים של כל עמק, ושלט עם השם וספירה לפי צבע. מסלולים דקים, רכבלים אפורים, בלי תוויות | כן |
 | ב | שורת צ'יפים לעמק: מסגור, עמעום השאר, תוויות לפי חשיבות (הארוכים קודם), והרשימה של העמק. במחשב, מעבר עכבר על שורה מבליט את המסלול | כן, יחד עם א |
 | ג | הרשימה קודם: רצועת מפה קטנה והרשימה מתחת | לא; רק החלוקה של הרשימה לעמקים |
-| ד | תלת-ממד לכל עמק: מצלמה נמוכה מהצד החיצוני של העמק, מבט אל הרכס | כן |
+| ד | גם בתלת-ממד עמקים: כל ההר במבט גבוה, כל מסלול בצבע העמק שלו, ושלט לכל עמק; בעמק אחד מצלמה נמוכה מהצד החיצוני, והמסלולים של שאר העמקים באפור (עודכן לפי פיני, 7.10.2026) | כן |
 
 גודאורי בלי שינוי: שכבת העמקים רק באתר שיש לו חלוקה לעמקים בנתונים.
 
